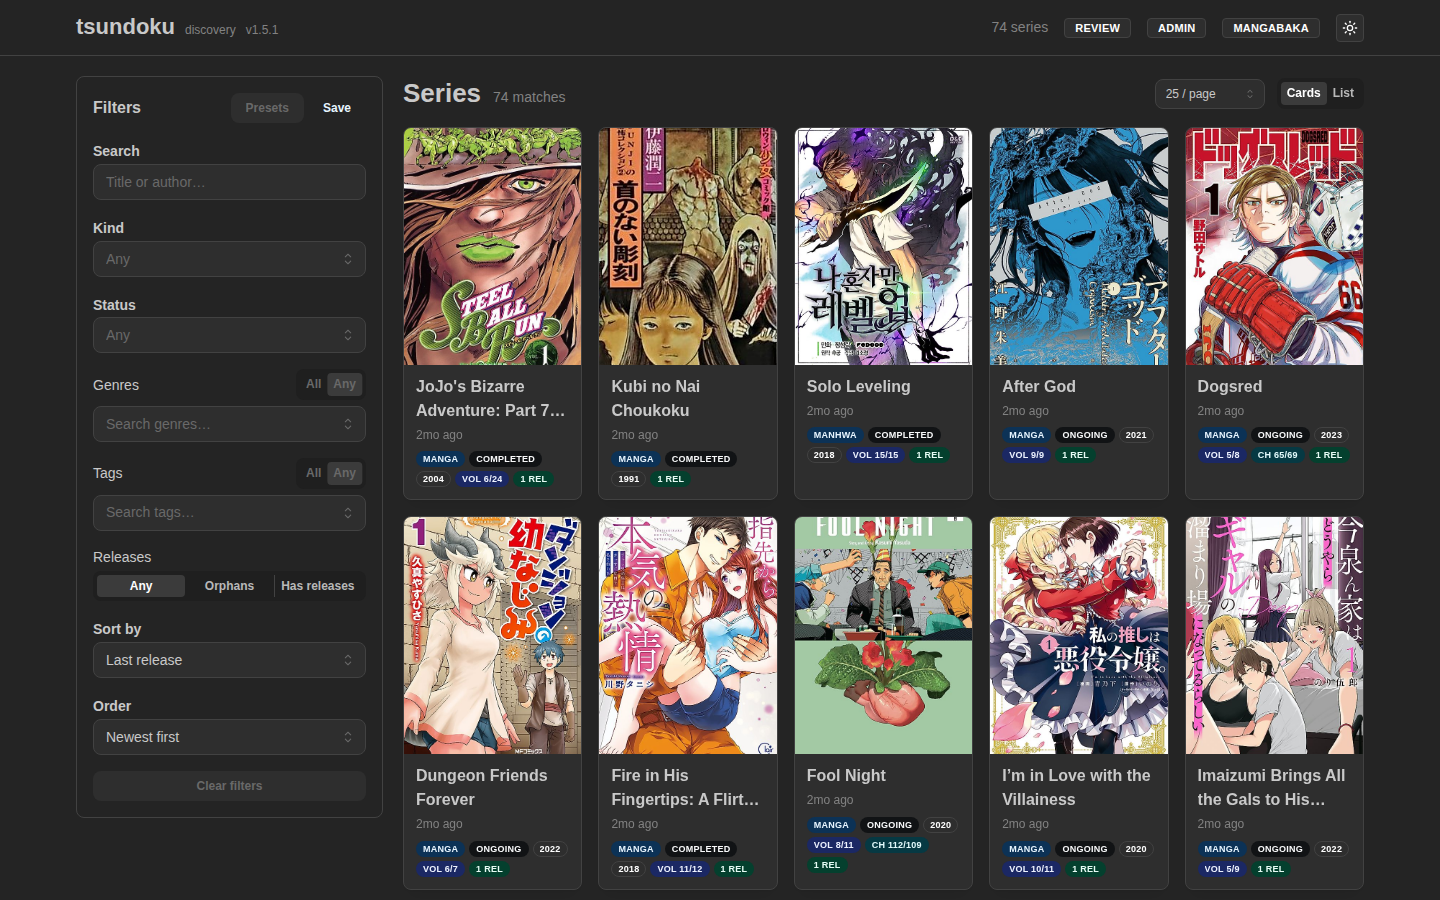
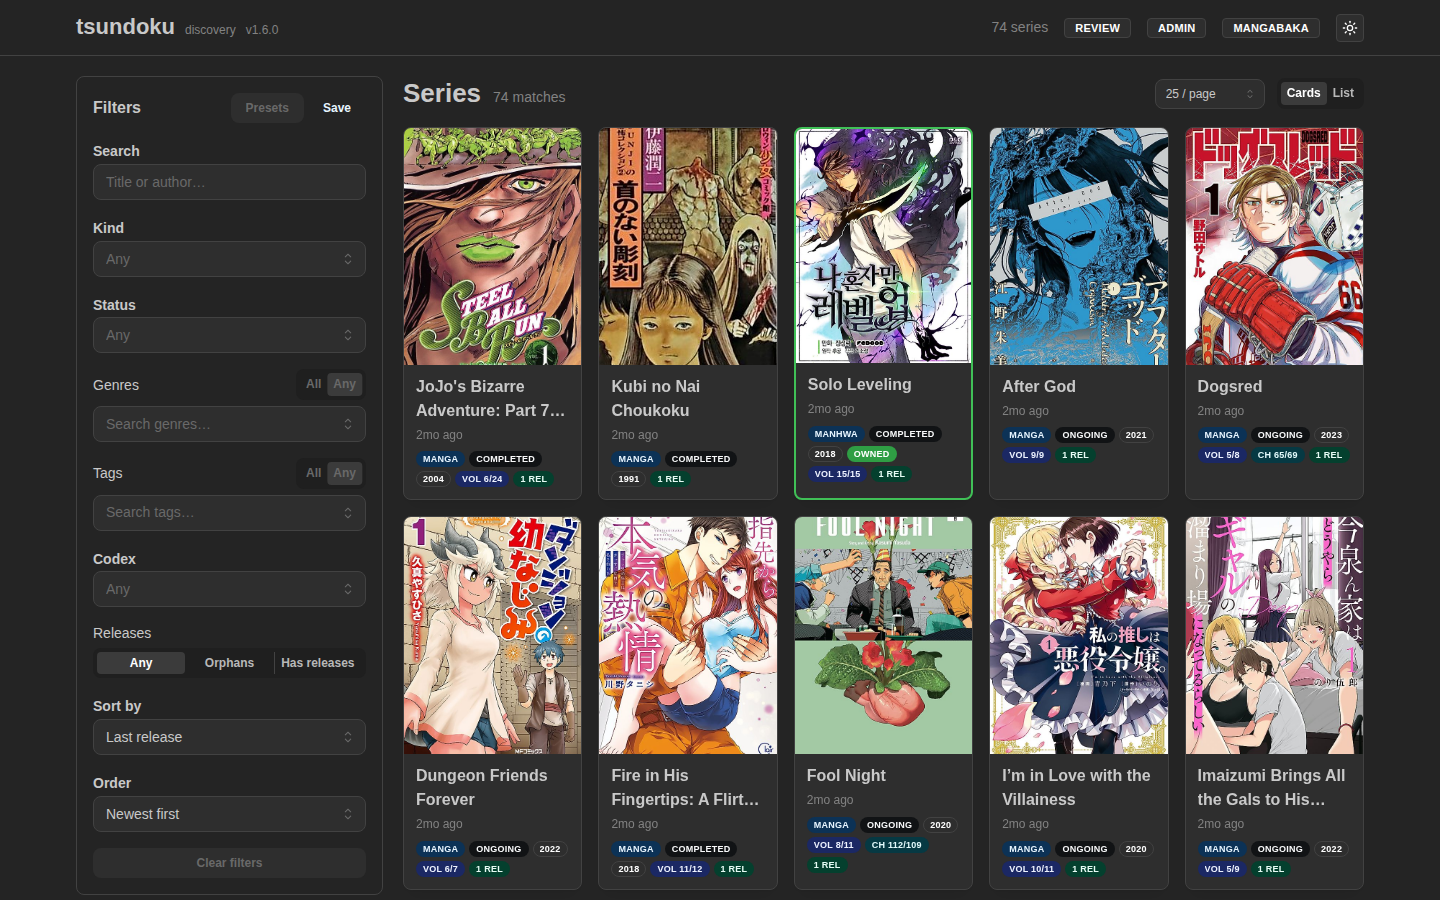
docs(codex): document admin-only ownership badges and refresh screenshots
Replace the stale "reserved infrastructure" note on the browse page with a
live description of the admin-only Codex ownership overlay, including a
color table for the badge states (green=owned, blue=behind, gray=owned?,
none=not in Codex / non-admin) and a note that the overlay is enforced
server-side so a public visitor never sees the library.

Point the Codex links to https://codex.4sh.dev across the codex,
configuration, and browse pages.

Drive a Codex presence sweep from the maintenance page in the screenshot
automation after releases land, so the captured feed shows populated
ownership badges. Adds getCodexStatus / waitForCodexSync helpers that poll
the admin-only status endpoint until the sweep advances, and no-ops when
the integration is disabled. Regenerate the UI screenshots.

diff --git a/screenshots/scripts/capture.ts b/screenshots/scripts/capture.ts
@@ -2,12 +2,15 @@ import { chromium, type Browser, type BrowserContext, type Page } from "playwrig
 import { config } from "../playwright.config.js";
 import { seedAdminToken } from "./utils/auth.js";
 import {
+  getCodexStatus,
   getStats,
   listSources,
   triggerPolls,
+  waitForCodexSync,
   waitForPollSoak,
 } from "./utils/api.js";
 import { printScreenshotSummary } from "./utils/screenshot.js";
+import { waitForElement, waitForPageReady } from "./utils/wait.js";
 
 interface ScenarioModule {
   run: (page: Page, context: BrowserContext) => Promise<void>;
@@ -73,6 +76,11 @@ async function main(): Promise<void> {
       );
     }
 
+    // Now that releases have landed, drive a Codex presence sweep from the
+    // maintenance page so the ownership badges on the feed are populated
+    // before the scenarios screenshot them.
+    await triggerCodexSync(page, context);
+
     const scenarios = await loadScenarios();
 
     if (scenarios.length === 0) {
@@ -103,6 +111,46 @@ async function main(): Promise<void> {
     if (browser) {
       await browser.close();
     }
+  }
+}
+
+/// Navigate to the maintenance page and click the Codex "Refresh now"
+/// button, then wait for the sweep to finish. No-ops (with a log line) when
+/// the Codex integration is disabled, since the button isn't rendered then.
+async function triggerCodexSync(
+  page: Page,
+  context: BrowserContext,
+): Promise<void> {
+  console.log("\n🔗 Triggering Codex sync from the maintenance page");
+  console.log("-".repeat(40));
+
+  const before = await getCodexStatus(context.request);
+  if (!before || !before.enabled) {
+    console.log("  ⚠  Codex integration disabled; skipping sync.");
+    return;
+  }
+
+  await page.goto("/admin/maintenance");
+  await waitForPageReady(page);
+
+  const refreshButton = '[data-testid="maintenance-codex-refresh-button"]';
+  try {
+    await waitForElement(page, refreshButton);
+    await page.click(refreshButton);
+  } catch (err) {
+    console.log(
+      `  ⚠  Could not trigger Codex refresh from the UI: ${(err as Error).message}`,
+    );
+    return;
+  }
+
+  console.log("  ⏳ Waiting for the Codex sweep to finish...");
+  const after = await waitForCodexSync(context.request, before.lastSuccessAt);
+  if (after?.lastSuccessAt && after.lastSuccessAt !== before.lastSuccessAt) {
+    console.log(
+      `  ✓ Codex sync complete (fetched=${after.fetchedCount ?? "?"}, ` +
+        `linked=${after.linkedCount ?? "?"})`,
+    );
   }
 }
 

diff --git a/screenshots/scripts/utils/api.ts b/screenshots/scripts/utils/api.ts
@@ -23,6 +23,15 @@ interface SourceListItem {
   config: { enabled: boolean };
 }
 
+export interface CodexStatusResponse {
+  enabled: boolean;
+  reachable: boolean;
+  lastSuccessAt?: number;
+  fetchedCount?: number;
+  linkedCount?: number;
+  lastError?: string;
+}
+
 export async function getStats(
   request: APIRequestContext,
 ): Promise<StatsResponse | null> {
@@ -63,6 +72,52 @@ export async function triggerPolls(
     const body = await res.json().catch(() => ({}));
     console.log(`    → ${name}: ${JSON.stringify(body)}`);
   }
+}
+
+export async function getCodexStatus(
+  request: APIRequestContext,
+): Promise<CodexStatusResponse | null> {
+  // `/codex/status` is admin-only, so the bearer is required.
+  const res = await request.get("/api/v1/codex/status", {
+    headers: bearer(),
+  });
+  if (!res.ok()) {
+    return null;
+  }
+  return (await res.json()) as CodexStatusResponse;
+}
+
+/// Poll `/codex/status` until the sweep records a `lastSuccessAt` newer
+/// than the baseline captured before the trigger (or until the timeout).
+/// Returns the final status so the caller can log the fetched count.
+export async function waitForCodexSync(
+  request: APIRequestContext,
+  baselineSuccessAt: number | undefined,
+  timeoutSeconds: number = 90,
+): Promise<CodexStatusResponse | null> {
+  const deadline = Date.now() + timeoutSeconds * 1000;
+  let last: CodexStatusResponse | null = null;
+
+  while (Date.now() < deadline) {
+    last = await getCodexStatus(request);
+    if (last) {
+      // A sweep completed if a fresh success timestamp landed, or (when
+      // there was no prior success) any success timestamp at all.
+      const advanced =
+        last.lastSuccessAt != null &&
+        last.lastSuccessAt !== baselineSuccessAt;
+      if (advanced) {
+        return last;
+      }
+      if (last.lastError) {
+        console.log(`    ⚠  Codex sweep reported error: ${last.lastError}`);
+      }
+    }
+    await new Promise((r) => setTimeout(r, 3000));
+  }
+
+  console.log("    ⚠  Codex sync wait timed out; continuing");
+  return last;
 }
 
 /// Block until the soak window elapses. Always waits at least

diff --git a/docs/docs/browse.md b/docs/docs/browse.md
@@ -114,11 +114,31 @@ Both views show:
 
 - Cover (placeholder when the provider has none).
 - Canonical title, year, kind, status badges.
-- Linked release count (e.g. `5 REL`) and an `OWNED` badge for
-  series Codex has imported (see [the ownership note](./architecture.md#why-standalone-instead-of-a-codex-plugin)
-  for why this is reserved infrastructure today).
+- Linked release count (e.g. `5 REL`).
+- A **Codex ownership badge**, when the [Codex integration](./codex.md)
+  is enabled and you're signed in as admin (see below).
 
 Click any card to drill into the [series detail page](#series-detail).
+
+### Codex ownership badges (admin-only)
+
+With the [Codex integration](./codex.md) enabled, the feed overlays each
+series with whether it's already in your [Codex](https://codex.4sh.dev)
+library, and an accent on the tile/row matching the badge color:
+
+| Badge | Color | Meaning |
+| --- | --- | --- |
+| **owned** | 🟢 green | In Codex and caught up: Codex owns at least as much as has surfaced. |
+| **behind** | 🔵 blue | In Codex, but newer volumes/chapters have surfaced than Codex owns: worth grabbing. |
+| **owned?** | ⚪ gray | In Codex, but the count didn't parse on Codex's side, so we can't tell if you're caught up. |
+| *(no badge)* | — | Not in Codex, or you're not signed in as admin. |
+
+The overlay is **admin-only** and enforced server-side: a public (read-tier)
+visitor never sees it, in the payload or the UI, so what's in your library
+stays private. Badges click through to the series in Codex. The feed's
+admin-only **Codex** filter narrows the list by ownership status. See the
+[Codex integration page](./codex.md) for the full picture, including how the
+status is computed and how to enable it.
 
 ## Pagination
 

diff --git a/docs/docs/codex.md b/docs/docs/codex.md
@@ -7,7 +7,7 @@ sidebar_position: 9
 
 tsundoku is discovery-centric: it surfaces series you might want, with no
 inherent idea of what you already own. The optional **Codex integration**
-closes that gap. It periodically reads your [Codex](https://github.com/AshDevFr/codex)
+closes that gap. It periodically reads your [Codex](https://codex.4sh.dev)
 library and overlays, on each series, whether you already own it and whether
 newer volumes or chapters have surfaced since.
 

diff --git a/docs/docs/configuration.md b/docs/docs/configuration.md
@@ -256,7 +256,7 @@ parallel polling at different cadences.
 
 ## `[codex]`
 
-Optional integration with a [Codex](https://github.com/AshDevFr/codex)
+Optional integration with a [Codex](https://codex.4sh.dev)
 library, powering the admin-only ownership overlay on the feed. Disabled
 by default; the whole block may be omitted. See the dedicated
 [Codex integration](./codex.md) page for the full picture.
